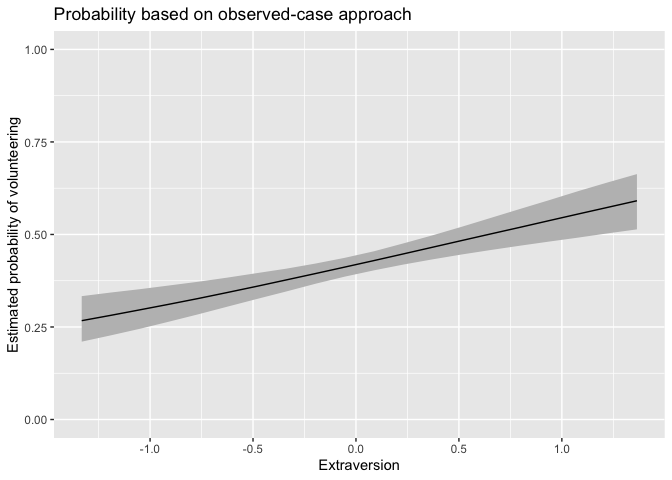
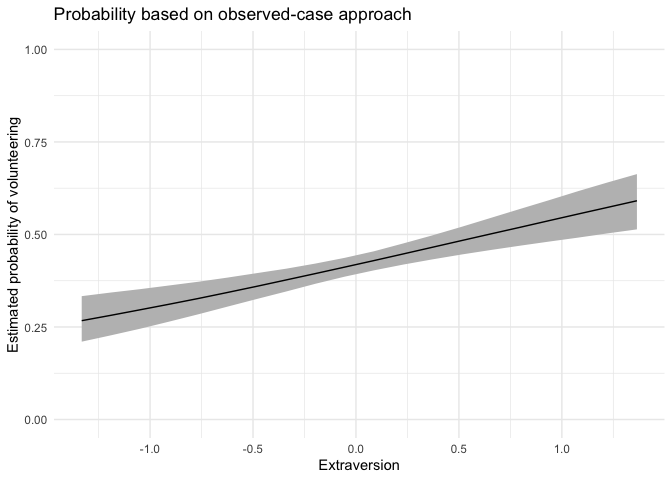
updated plots to theme_minimal

diff --git a/README.md b/README.md
@@ -2,11 +2,10 @@
 BayesPostEst
 ============
 
-[![Build Status](https://travis-ci.com/ShanaScogin/BayesPostEst.svg?branch=master)](https://travis-ci.com/ShanaScogin/BayesPostEst)
-[![CRAN_Status_Badge](http://www.r-pkg.org/badges/version/BayesPostEst)](https://CRAN.R-project.org/package=BayesPostEst)
-[![DOI](https://joss.theoj.org/papers/10.21105/joss.01722/status.svg)](https://doi.org/10.21105/joss.01722)
-[![Codecov test coverage](https://codecov.io/gh/ShanaScogin/BayesPostEst/branch/master/graph/badge.svg)](https://codecov.io/gh/ShanaScogin/BayesPostEst?branch=master)
-
+<!-- [![Build Status](https://travis-ci.com/ShanaScogin/BayesPostEst.svg?branch=master)](https://travis-ci.com/ShanaScogin/BayesPostEst) -->
+<!-- [![CRAN_Status_Badge](http://www.r-pkg.org/badges/version/BayesPostEst)](https://CRAN.R-project.org/package=BayesPostEst) -->
+<!-- [![DOI](https://joss.theoj.org/papers/10.21105/joss.01722/status.svg)](https://doi.org/10.21105/joss.01722) -->
+<!-- [![Codecov test coverage](https://codecov.io/gh/ShanaScogin/BayesPostEst/branch/master/graph/badge.svg)](https://codecov.io/gh/ShanaScogin/BayesPostEst?branch=master) -->
 An R package implementing functions to assist in generating and plotting postestimation quantities after estimating Bayesian regression models using MCMC.
 
 Introduction
@@ -70,7 +69,7 @@ df$neuroticism <- (df$neuroticism - mean(df$neuroticism)) / (2 * sd(df$neurotici
 
 We estimate a Bayesian generalized linear model with the inverse logit link function, where
 
-*P**r*(Volunteering<sub>*i*</sub>)=logit<sup>−1</sup>(*β*<sub>1</sub> + *β*<sub>2</sub>Female<sub>*i*</sub> + *β*<sub>3</sub>Neuroticism<sub>*i*</sub> + *β*<sub>4</sub>Extraversion<sub>*i*</sub>)
+Pr(Volunteering<sub>*i*</sub>) = logit<sup>−1</sup>(*β*<sub>1</sub>+*β*<sub>2</sub>Female<sub>*i*</sub>+*β*<sub>3</sub>Neuroticism<sub>*i*</sub>+*β*<sub>4</sub>Extraversion<sub>*i*</sub>)
 
 BayesPostEst functions accommodate GLM estimates for both logit and probit link functions. The examples proceed with the logit link function. If we had estimated a probit regression, the corresponding argument `link` in relevant function calls would need to be set to `link = "probit"`. Otherwise, it is set to `link = "logit"` by default.
 
@@ -258,10 +257,10 @@ mcmcTab(fit.rjags)
 ```
 
     ##   Variable Median    SD  Lower  Upper
-    ## 1     b[1] -0.461 0.082 -0.619 -0.299
-    ## 2     b[2]  0.236 0.112  0.014  0.453
-    ## 3     b[3]  0.062 0.112 -0.156  0.281
-    ## 4     b[4]  0.520 0.110  0.305  0.739
+    ## 1     b[1] -0.461 0.083 -0.620 -0.298
+    ## 2     b[2]  0.237 0.111  0.018  0.451
+    ## 3     b[3]  0.064 0.112 -0.157  0.283
+    ## 4     b[4]  0.519 0.110  0.300  0.733
 
 ``` r
 mcmcTab(fit.MCMCpack)
@@ -475,7 +474,8 @@ ggplot(data = aveprob.female.jags,
   scale_y_discrete(labels = c("Male", "Female")) + 
   ylab("") + 
   xlab("Estimated probability of volunteering") + 
-  labs(title = "Probability based on average-case approach")
+  labs(title = "Probability based on average-case approach") +
+  theme_minimal()
 ```
 
     ## Picking joint bandwidth of 0.00327
@@ -506,7 +506,8 @@ ggplot(data = aveprob.extra.jags,
   xlab("Extraversion") + 
   ylab("Estimated probability of volunteering") + 
   ylim(0, 1) + 
-  labs(title = "Probability based on average-case approach")
+  labs(title = "Probability based on average-case approach") +
+  theme_minimal()
 ```
 
 ![](README_files/figure-markdown_github/unnamed-chunk-39-1.png)
@@ -540,7 +541,8 @@ ggplot(data = obsprob.female.jags,
   scale_y_discrete(labels = c("Male", "Female")) + 
   ylab("") + 
   xlab("Estimated probability of volunteering") + 
-  labs(title = "Probability based on observed-case approach")
+  labs(title = "Probability based on observed-case approach") +
+  theme_minimal()
 ```
 
     ## Picking joint bandwidth of 0.00318
@@ -571,7 +573,8 @@ ggplot(data = obsprob.extra.jags,
   xlab("Extraversion") + 
   ylab("Estimated probability of volunteering") + 
   ylim(0, 1) + 
-  labs(title = "Probability based on observed-case approach")
+  labs(title = "Probability based on observed-case approach") +
+  theme_minimal()
 ```
 
 ![](README_files/figure-markdown_github/unnamed-chunk-43-1.png)
@@ -626,7 +629,8 @@ ggplot(data = fdsum.jags,
   geom_segment(aes(x = lower_fd, xend = upper_fd, yend = VarName)) + 
   geom_vline(xintercept = 0) + 
   xlab("Change in Pr(Volunteering)") + 
-  ylab("")
+  ylab("") +
+  theme_minimal()
 ```
 
 ![](README_files/figure-markdown_github/unnamed-chunk-46-1.png)
@@ -648,7 +652,8 @@ The user can further customize the plot.
 
 ``` r
 p <- plot(fdfull.jags, ROPE = c(-0.01, 0.01))
-p + labs(title = "First differences") + ggridges::theme_ridges()
+p + labs(title = "First differences") + 
+  ggridges::theme_ridges()
 ```
 
     ## Picking joint bandwidth of 0.37
@@ -697,7 +702,8 @@ ggplot(data = as.data.frame(fitstats, what = "roc"), aes(x = x, y = y)) +
   geom_abline(intercept = 0, slope = 1, color = "gray") + 
   labs(title = "ROC curve") + 
   xlab("1 - Specificity") + 
-  ylab("Sensitivity")
+  ylab("Sensitivity") +
+  theme_minimal()
 ```
 
 ![](README_files/figure-markdown_github/unnamed-chunk-52-1.png)
@@ -709,7 +715,8 @@ ggplot(data = as.data.frame(fitstats, what = "prc"), aes(x = x, y = y)) +
   geom_line() + 
   labs(title = "Precision-Recall curve") + 
   xlab("Recall") + 
-  ylab("Precision")
+  ylab("Precision") +
+  theme_minimal()
 ```
 
 ![](README_files/figure-markdown_github/unnamed-chunk-53-1.png)
@@ -730,7 +737,8 @@ We can then plot the posterior density of the area under each curve.
 ggplot(as.data.frame(fitstats.fullsims), 
        aes(x = area_under_roc)) +
   geom_density() +
-  labs(title = "Area under the ROC curve")
+  labs(title = "Area under the ROC curve") +
+  theme_minimal()
 ```
 
 ![](README_files/figure-markdown_github/unnamed-chunk-55-1.png)
@@ -739,7 +747,8 @@ ggplot(as.data.frame(fitstats.fullsims),
 ggplot(as.data.frame(fitstats.fullsims), 
        aes(x = area_under_prc)) +
   geom_density() +
-  labs(title = "Area under the Precision-Recall curve")
+  labs(title = "Area under the Precision-Recall curve") +
+  theme_minimal()
 ```
 
 ![](README_files/figure-markdown_github/unnamed-chunk-56-1.png)

diff --git a/NEWS.md b/NEWS.md
@@ -5,7 +5,8 @@
   + The function has now become a generic with S3 methods for different types of input, e.g. "rjags" objects created by [R2jags::jags()] or "stanfit" via [rstan::stan()]. The default method takes a matrix of predicted probabilities and vector of observed outcomes as input, thus allowing any posterior sampling method to be accommodated. (#5)
   + Added print, plot, as.data.frame methods for "mcmcRocPrc" objects created with mcmcRocPrc(). (#32)
 * Fixed several errors in documentation code examples. (#64)
-* Added images to readme
+* Added README.rmd to render images.
+* Updated plots to a minimalist theme in documentation
 
 # BayesPostEst 0.3.0
 
